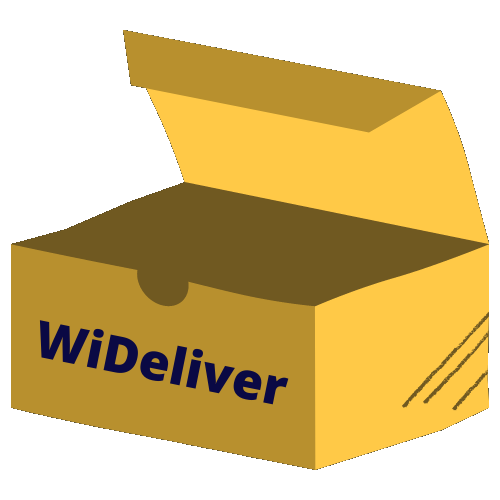
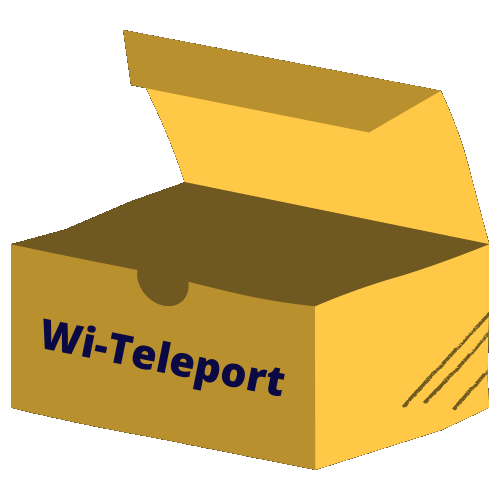
Another update

Changed region(s): [[0.06, 0.63, 0.6, 0.81]]

diff --git a/index.html b/index.html
@@ -6,12 +6,12 @@
     <meta name="viewport" content="width=device-width, initial-scale=1.0">
     <link rel="stylesheet" href="https://use.fontawesome.com/releases/v5.15.3/css/all.css" integrity="sha384-SZXxX4whJ79/gErwcOYf+zWLeJdY/qpuqC4cAa9rOGUstPomtqpuNWT9wdPEn2fk" crossorigin="anonymous">
     <link rel="stylesheet" href="style.css">
-    <title> Wi Deliver </title>
+    <title> Wi Teleport </title>
 </head>
 <body>
 
     <div id="Header">
-        <div class="Logo"> WiDeliver </div>
+        <div class="Logo"> Wi Teleport </div>
         <div class="Menu">
             <ul>
                 <li> <a href="#HomePage"> Home </a> </li>
@@ -28,7 +28,7 @@
             <img src="./images/box.png" alt="">
         </div>
         <div class="Heading">
-            WiDeliver From Your Favourite Stores
+            Wi Teleport From Your Favourite Stores
             <br>
             To
             <br>
@@ -45,23 +45,17 @@
             <div class="Section1">
                 <h3> Product/Service Feasibility </h3>
                 <p>
-                    The covid pandemic has disrupted the lives of many people from all walks of life. Restrictions on building capacity, lengthy wait times, social distancing directives, as well as quarantine mandates have opened a window for the introduction of WI DELIVER.
+                    The covid pandemic has disrupted the lives of many people from all walks of life. Restrictions on building capacity, lengthy wait times, social distancing directives, as well as quarantine mandates have opened a window for the introduction of Wi Teleport.
 
                     <br>
 
-                    Wi Deliver is a fast, convenient, and reliable same-day delivery service for busy individuals to have whatever they need delivered from anywhere across the island. Whether groceries, prescriptions or food, the efficient team of young couriers can collect any package and deliver it directly to the customer’s doorstep - safely and sanitized. Wi Deliver has partnered with leading supermarkets, restaurants and retail stores to serve customers from 8am to 8 pm every day of the week, including Sundays. Customers can enjoy an easy and free registration process via the Wi Deliver website, mobile app and social media pages.
+                    Wi Teleport is a fast, convenient, and reliable same-day delivery service for busy individuals to have whatever they need delivered from anywhere across the island. Whether groceries, prescriptions or food, the efficient team of young couriers can collect any package and deliver it directly to the customer’s doorstep - safely and sanitized. Wi Teleport has partnered with leading supermarkets, restaurants and retail stores to serve customers from 8am to 8 pm every day of the week, including Sundays. Customers can enjoy an easy and free registration process via the Wi Teleport website, mobile app and social media pages.
                 </p>
             </div>
             <div class="Section2">
                 <h3> Industry/Target Market Feasibility </h3>
                 <p>
-                    Lorem ipsum dolor sit amet consectetur adipisicing elit. Dolore, dicta? Quo voluptas eveniet inventore quae rem quas sequi optio neque possimus unde ad nam eaque, est iusto quidem pariatur maiores.Lorem ipsum dolor sit amet consectetur adipisicing elit. Dolore, dicta? Quo voluptas eveniet inventore quae rem quas sequi optio neque possimus unde ad nam eaque, est iusto quidem pariatur maiores.
-
-                    <br>
-
-                    Lorem ipsum dolor sit amet consectetur adipisicing elit. Dolore, dicta? Quo voluptas eveniet inventore quae rem quas sequi optio neque possimus unde ad nam eaque, est iusto quidem pariatur maiores.Lorem ipsum dolor sit amet consectetur adipisicing elit. Dolore, dicta? 
-                    Lorem ipsum dolor sit amet consectetur adipisicing elit. Dolore, dicta? Quo voluptas eveniet inventore quae rem quas sequi optio neque possimus unde ad nam eaque, est iusto quidem pariatur maiores.Lorem ipsum dolor sit amet consectetur adipisicing elit. Dolore, dicta? 
-                    Lorem ipsum dolor sit amet consectetur adipisicing elit. Dolore, dicta? Quo voluptas eveniet inventore quae rem quas sequi optio neque possimus unde ad nam eaque, est iusto quidem pariatur maiores.Lorem ipsum dolor sit amet consectetur adipisicing elit. Dolore, dicta? 
+                    During the initial establishment of the business venture, the business will operate in the e-commerce industry. Although this industry is mature, the business intends to mitigate the disadvantages, through the targeting of individuals who reside in metropolitan areas and specifically those who have faced challenges in purchasing goods due to the pandemic. The demand for a reliable and cost-effective service to provide aid in light of the pandemic has grown exponentially, which has presented a window of opportunity for a business venture such as ours. Therefore, through offering a reasonably priced service to these individuals who are eager for services similar to ours, it can be expected that we can generate a significant and stable customer base that can endure and support any new business venture with significant leeway pertaining to the status of the pandemic.
                 </p>
             </div>
         </div>
@@ -73,14 +67,11 @@
     <section id="Business" >
         <h1 class="Title"> Business Model </h1>
         <div class="sections">
-            <div class="Section2A">
+            <div class="Section2A1">
                 <h3> Business Model </h3>
                 <p>
-                    WiDeliver falls under a standard business model. On-demand services are not new in the business world today, however, WiDeliver differs from the norm. We give people the ability to order anything from various stores with one delivery. Just as eBay transformed the age-old auctioning process, we are expanding upon and adding value to the way delivery is normally done, giving Barbadians the option to order groceries, clothing, electronics, and more through one service and have them all delivered at once.
+                    Wi Teleport falls under a standard business model. On-demand services are not new in the business world today, however, Wi Teleport differs from the norm. We give people the ability to order anything from various stores with one delivery. Just as eBay transformed the age-old auctioning process, we are expanding upon and adding value to the way delivery is normally done, giving Barbadians the option to order groceries, clothing, electronics, and more through one service and have them all delivered at once.
                 </p>
-            </div>
-            <div class="Section1A"> 
-
             </div>
         </div>
         <div id="BottomArrow">
@@ -125,7 +116,7 @@
     </section>
 
 
-    <section id="Competitor" >
+    <section id="Competitor">
         <h1 class="Title"> Competitor Analysis </h1>
         <h3 class="Subtitle"> Competitive Analysis Grid for wi teleport </h3>
         <div class="sections">

diff --git a/style.css b/style.css
@@ -226,6 +226,21 @@ section
     border-bottom: 5px dotted #FFC947;
 }
 
+.Section2A1
+{
+    width: 50%;
+    height: 50vh;
+    margin-left: auto;
+    margin-right: auto;
+    text-align: center;
+    border: 5px dotted #FFC947;;
+}
+
+.Section2A1 p
+{
+    padding: 0 15px;
+}
+
 
 .Divs
 {
@@ -253,7 +268,7 @@ section
     width: 30%;
     height: 40vh;
     float: left;
-    margin-top: 4vh;
+    margin-top: 2vh;
     color: black;
     background-color: #FFC947;
 }
